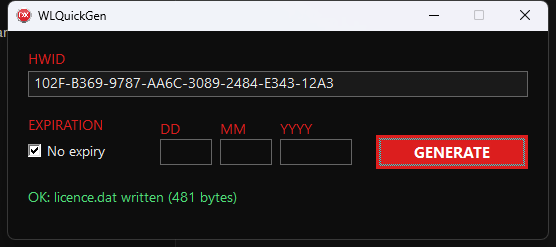
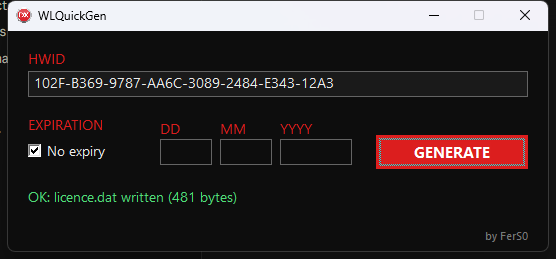
Add "by FerS0" signature in the bottom-right corner
Rendered as a muted static (control_id 1014) so it does not interfere with
the existing automation control IDs. Window height grown slightly to fit it.

diff --git a/WLQuickGen.cpp b/WLQuickGen.cpp
@@ -21,6 +21,7 @@
 //   "No expiry"      control_id 1006  (class Button, checkbox)
 //   GENERATE button  control_id 1011  (class Button)
 //   Status text      control_id 1012  (class Static) -> starts with "OK:" or "ERROR:"
+//   Signature        control_id 1014  (class Static)
 // No modal dialogs are shown; results are reported in the status text only.
 
 #include <windows.h>
@@ -75,6 +76,7 @@ constexpr int IDC_MONTH    = 1008;
 constexpr int IDC_YEAR     = 1009;
 constexpr int IDC_GENERATE = 1011;
 constexpr int IDC_STATUS   = 1012;
+constexpr int IDC_SIGNATURE = 1014;
 
 // ---------------------------------------------------------------------------
 // Theme.
@@ -86,11 +88,13 @@ constexpr COLORREF kAccent     = RGB(220, 30, 30);
 constexpr COLORREF kAccentDark = RGB(150, 18, 18);
 constexpr COLORREF kMuted      = RGB(150, 150, 150);
 constexpr COLORREF kOk         = RGB(80, 220, 120);
+constexpr COLORREF kSignature  = RGB(120, 120, 120);
 
 HBRUSH g_backgroundBrush{};
 HBRUSH g_fieldBrush{};
 HFONT  g_font{};
 HFONT  g_buttonFont{};
+HFONT  g_smallFont{};
 
 HWND g_hwid{};
 HWND g_noExpire{};
@@ -98,6 +102,7 @@ HWND g_day{};
 HWND g_month{};
 HWND g_year{};
 HWND g_status{};
+HWND g_signature{};
 
 std::wstring g_dllPath;       // detected generator DLL
 std::wstring g_dataDirectory; // folder holding GeneratorSeed.gns / GeneratorDatabase.abs
@@ -618,6 +623,13 @@ LRESULT CALLBACK WindowProc(HWND window, UINT message, WPARAM wParam, LPARAM lPa
                                    GetModuleHandleW(nullptr), nullptr);
         SendMessageW(g_status, WM_SETFONT, reinterpret_cast<WPARAM>(g_font), TRUE);
 
+        g_signature = CreateWindowExW(0, L"STATIC", L"by FerS0",
+                                      WS_CHILD | WS_VISIBLE | SS_RIGHT,
+                                      340, 198, 180, 16, window,
+                                      reinterpret_cast<HMENU>(static_cast<INT_PTR>(IDC_SIGNATURE)),
+                                      GetModuleHandleW(nullptr), nullptr);
+        SendMessageW(g_signature, WM_SETFONT, reinterpret_cast<WPARAM>(g_smallFont), TRUE);
+
         DetectSdk();
         LoadSettings();
         UpdateDateFields();
@@ -639,6 +651,8 @@ LRESULT CALLBACK WindowProc(HWND window, UINT message, WPARAM wParam, LPARAM lPa
             else
                 SetTextColor(dc, kMuted);
         }
+        else if (control == g_signature)
+            SetTextColor(dc, kSignature);
         else if (control == g_noExpire)
             SetTextColor(dc, kText);
         else
@@ -699,6 +713,9 @@ int WINAPI wWinMain(HINSTANCE instance, HINSTANCE, PWSTR, int show)
     g_buttonFont = CreateFontW(-15, 0, 0, 0, FW_BOLD, FALSE, FALSE, FALSE, DEFAULT_CHARSET,
                                OUT_DEFAULT_PRECIS, CLIP_DEFAULT_PRECIS, CLEARTYPE_QUALITY,
                                DEFAULT_PITCH | FF_DONTCARE, L"Segoe UI");
+    g_smallFont = CreateFontW(-11, 0, 0, 0, FW_NORMAL, FALSE, FALSE, FALSE, DEFAULT_CHARSET,
+                              OUT_DEFAULT_PRECIS, CLIP_DEFAULT_PRECIS, CLEARTYPE_QUALITY,
+                              DEFAULT_PITCH | FF_DONTCARE, L"Segoe UI");
 
     HICON icon = static_cast<HICON>(LoadImageW(instance, MAKEINTRESOURCEW(IDI_APPICON), IMAGE_ICON,
                                                0, 0, LR_DEFAULTSIZE | LR_SHARED));
@@ -718,7 +735,7 @@ int WINAPI wWinMain(HINSTANCE instance, HINSTANCE, PWSTR, int show)
     windowClass.hIconSm = iconSmall;
     RegisterClassExW(&windowClass);
 
-    RECT desired{0, 0, 540, 208};
+    RECT desired{0, 0, 540, 220};
     AdjustWindowRect(&desired, WS_OVERLAPPED | WS_CAPTION | WS_SYSMENU | WS_MINIMIZEBOX, FALSE);
     HWND window = CreateWindowExW(0, className, L"WLQuickGen",
                                   WS_OVERLAPPED | WS_CAPTION | WS_SYSMENU | WS_MINIMIZEBOX,
@@ -744,5 +761,6 @@ int WINAPI wWinMain(HINSTANCE instance, HINSTANCE, PWSTR, int show)
     DeleteObject(g_fieldBrush);
     DeleteObject(g_font);
     DeleteObject(g_buttonFont);
+    DeleteObject(g_smallFont);
     return static_cast<int>(message.wParam);
 }
